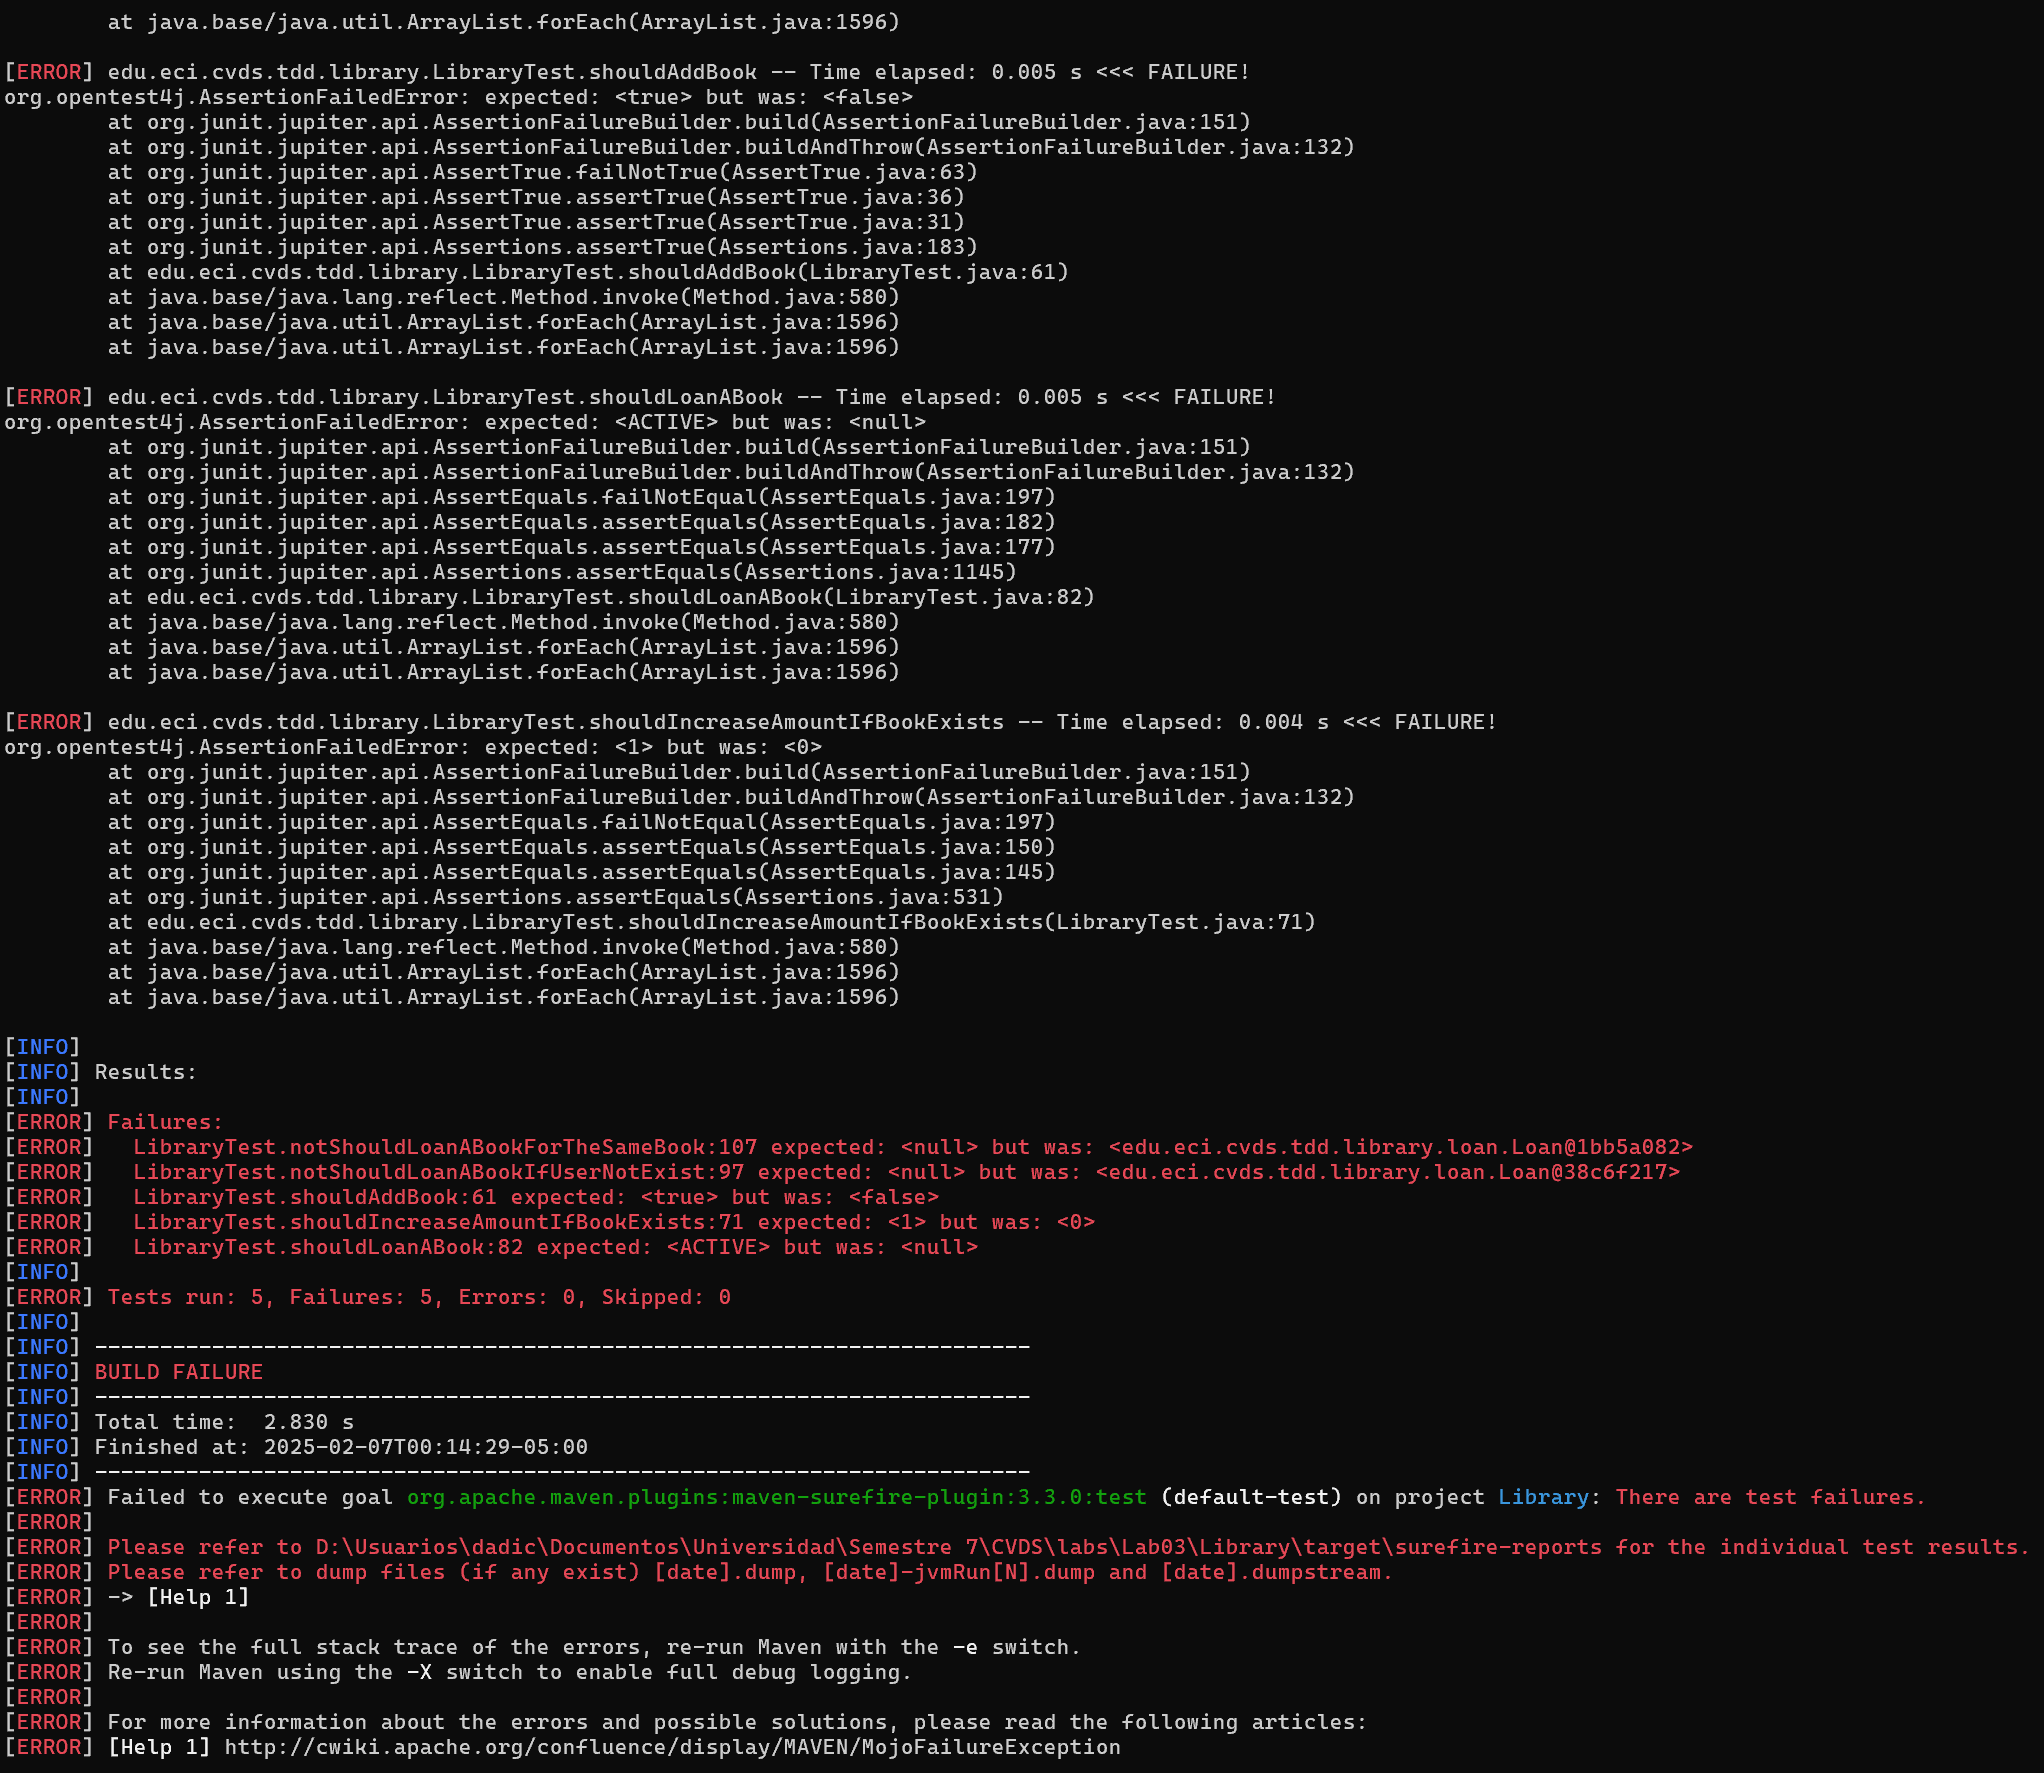
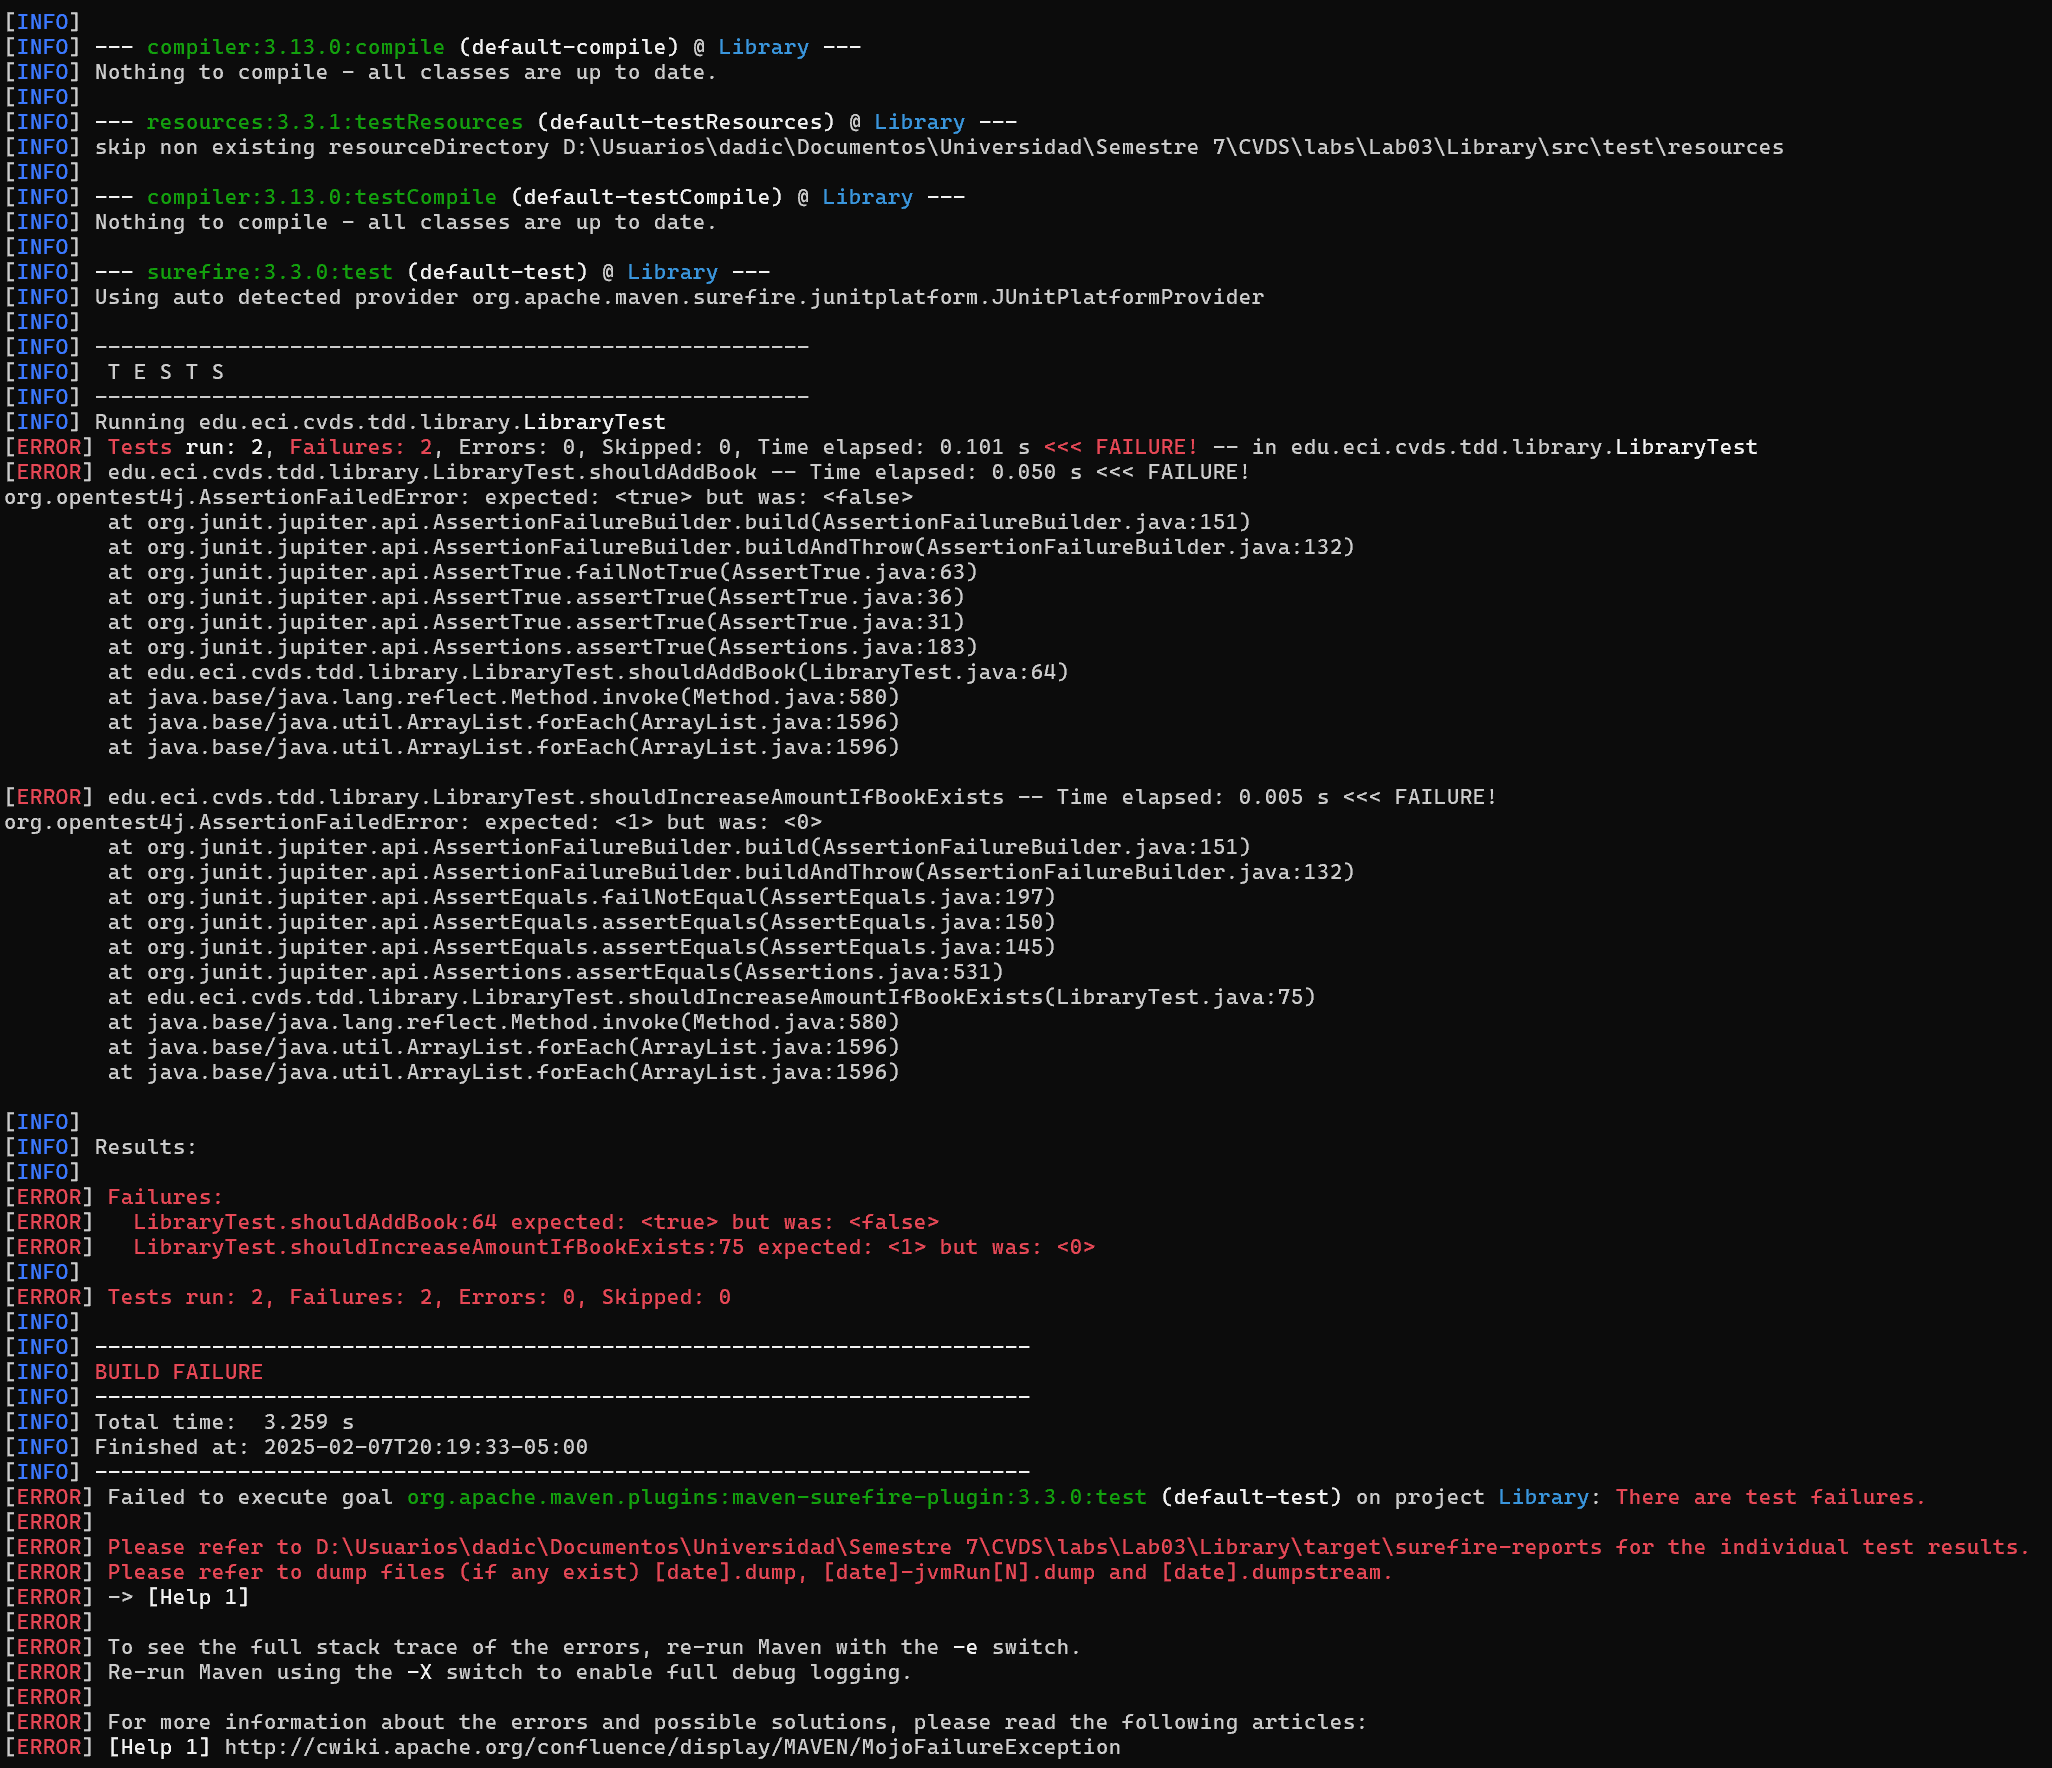
Actualice la prueba shouldIncreaseAmountIfBookExists

diff --git a/src/test/java/edu/eci/cvds/tdd/library/LibraryTest.java b/src/test/java/edu/eci/cvds/tdd/library/LibraryTest.java
@@ -69,13 +69,15 @@ public class LibraryTest {
         assertTrue(tempLibrary.addBook(book6));
     }
 
-    // @Test
-    // public void shouldIncreaseAmountIfBookExists() {
-    //     library.addBook(book1);
-    //     assertEquals(1,  library.getNumberBooks("El principito"));
-    //     library.addBook(book2);
-    //     assertEquals(2,  library.getNumberBooks("El principito"));
-    // }
+    @Test
+    public void shouldIncreaseAmountIfBookExists() {
+        library.addBook(book1);
+        assertEquals(1,  library.getNumberBooks("978-607-99498-0-8"));
+        library.addBook(book2);
+        assertEquals(2,  library.getNumberBooks("978-607-99498-0-8"));
+        library.addBook(book3);
+        assertEquals(3,  library.getNumberBooks("978-607-99498-0-8"));
+    }
 
     // @Test
     // public void shouldAmountBeOneForNewBook() {

diff --git a/src/main/java/edu/eci/cvds/tdd/library/Library.java b/src/main/java/edu/eci/cvds/tdd/library/Library.java
@@ -75,7 +75,7 @@ public class Library {
         return users.add(user);
     }
 
-    public int getNumberBooks(String name) {
+    public int getNumberBooks(String isbn) {
         return 0;
     }
 }
